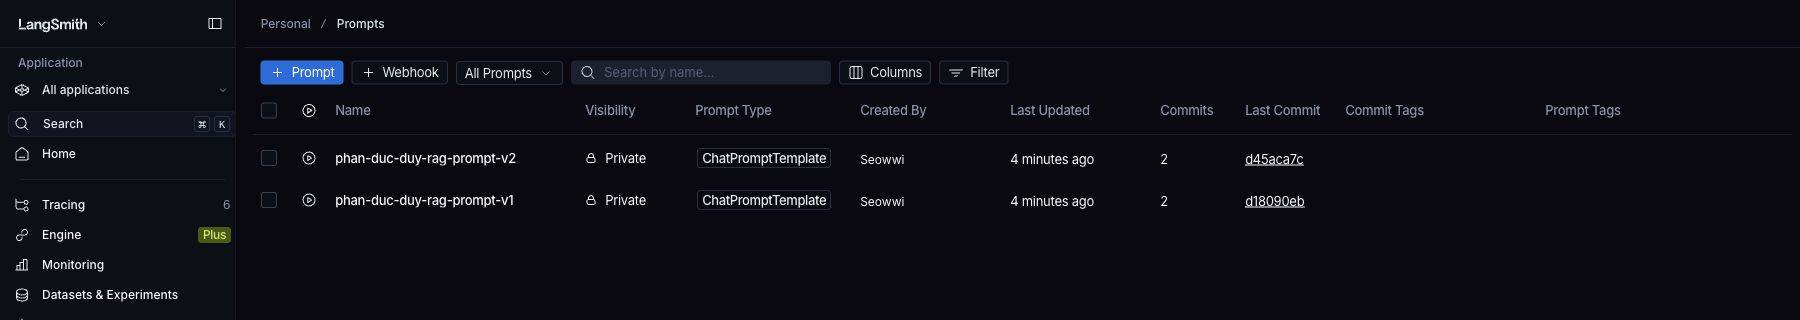
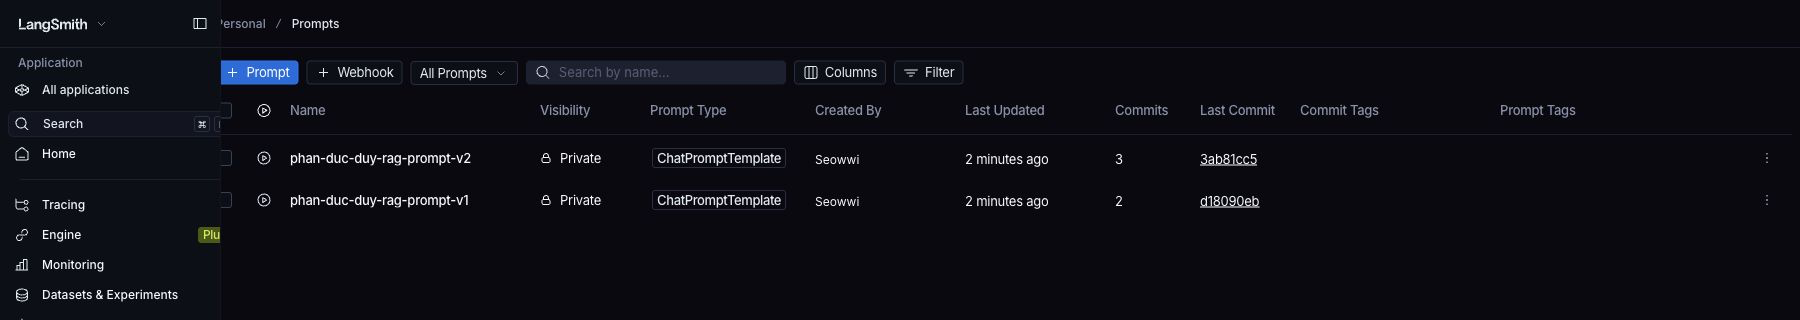
Add RAGAS comparison and submission evidence

diff --git a/evidence/README.md b/evidence/README.md
@@ -1,0 +1,14 @@
+# Phân tích kết quả RAGAS
+
+Cùng 50 cặp câu hỏi/đáp án chuẩn được chạy qua V1 và V2. Mỗi câu trả lời dùng 3 đoạn tài liệu từ FAISS. Mô hình tạo câu trả lời: Ollama `llama3.2:3b`; mô hình chấm RAGAS: `qwen2.5:3b`; embeddings: `nomic-embed-text`.
+
+| Chỉ số | V1 | V2 | Cao hơn |
+|---|---:|---:|---|
+| faithfulness | 0.7643 | 0.8888 | V2 |
+| answer_relevancy | 0.6040 | 0.8741 | V2 |
+| context_recall | 0.9631 | 0.9631 | Hòa |
+| context_precision | 0.9556 | 0.9483 | V1 |
+
+**Ngưỡng faithfulness ≥ 0,8:** đạt. V2 thay prompt tổng hợp dài bằng câu trả lời ngắn, chỉ nêu dữ kiện có trong context; faithfulness thay đổi +0.1244 so với V1.
+
+V1 có 5 tác vụ RAGAS bị quá thời gian khi Ollama chạy đồng thời nhiều yêu cầu; điểm trung bình bỏ qua giá trị không hợp lệ. Lượt chấm V2 cuối có 1 lỗi phân tích đầu ra trên 200 tác vụ; các điểm trung bình cũng chỉ dùng giá trị hợp lệ. Các tệp JSON và ảnh điểm trong thư mục này lấy từ các lần chạy thật, không phải điểm mẫu.
